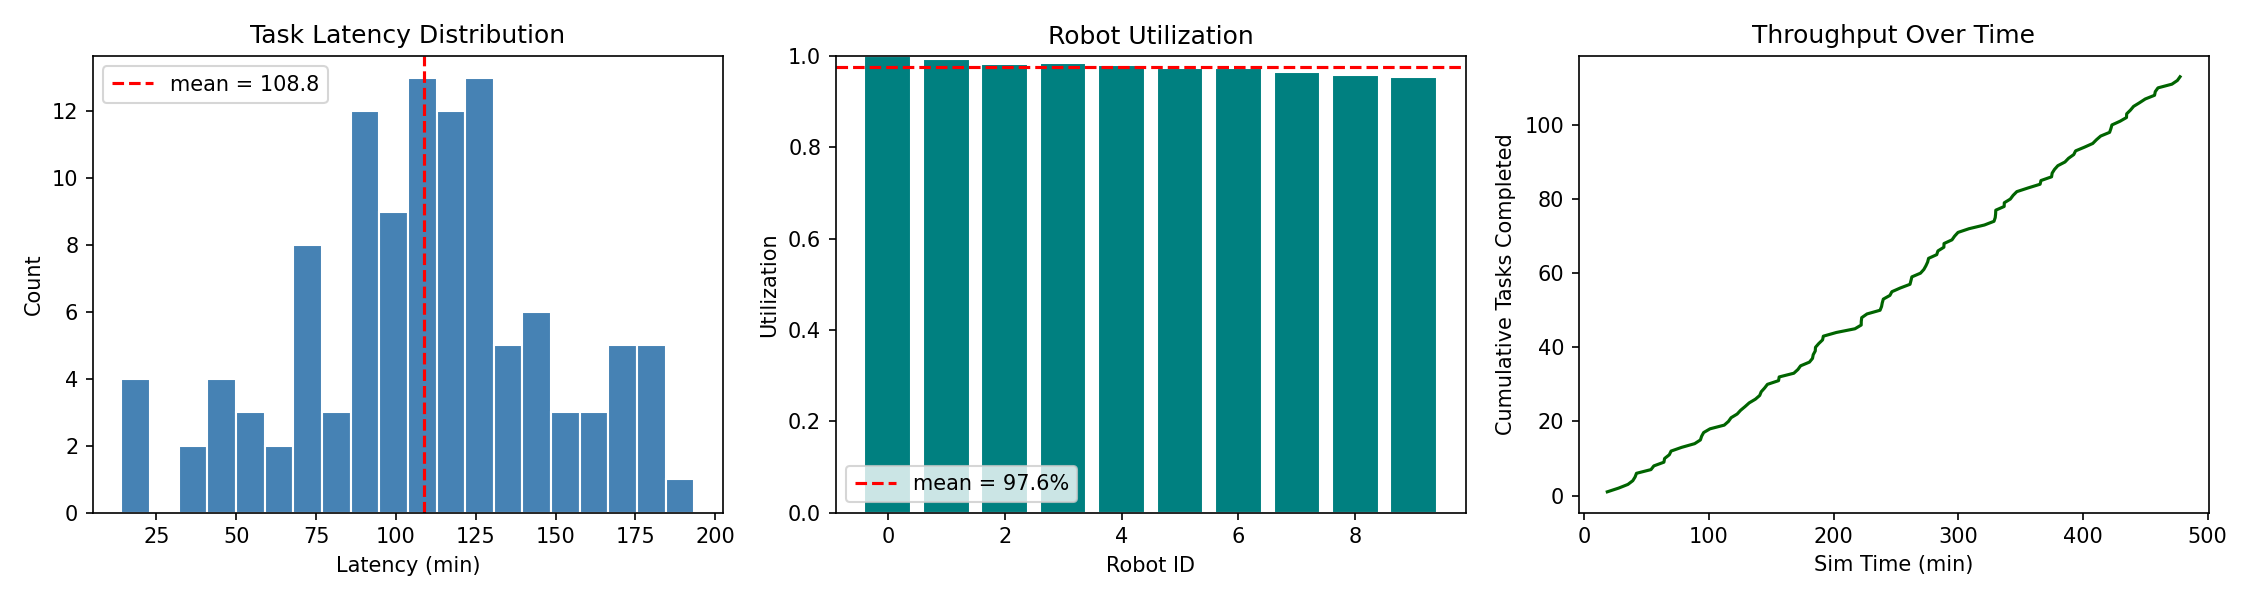
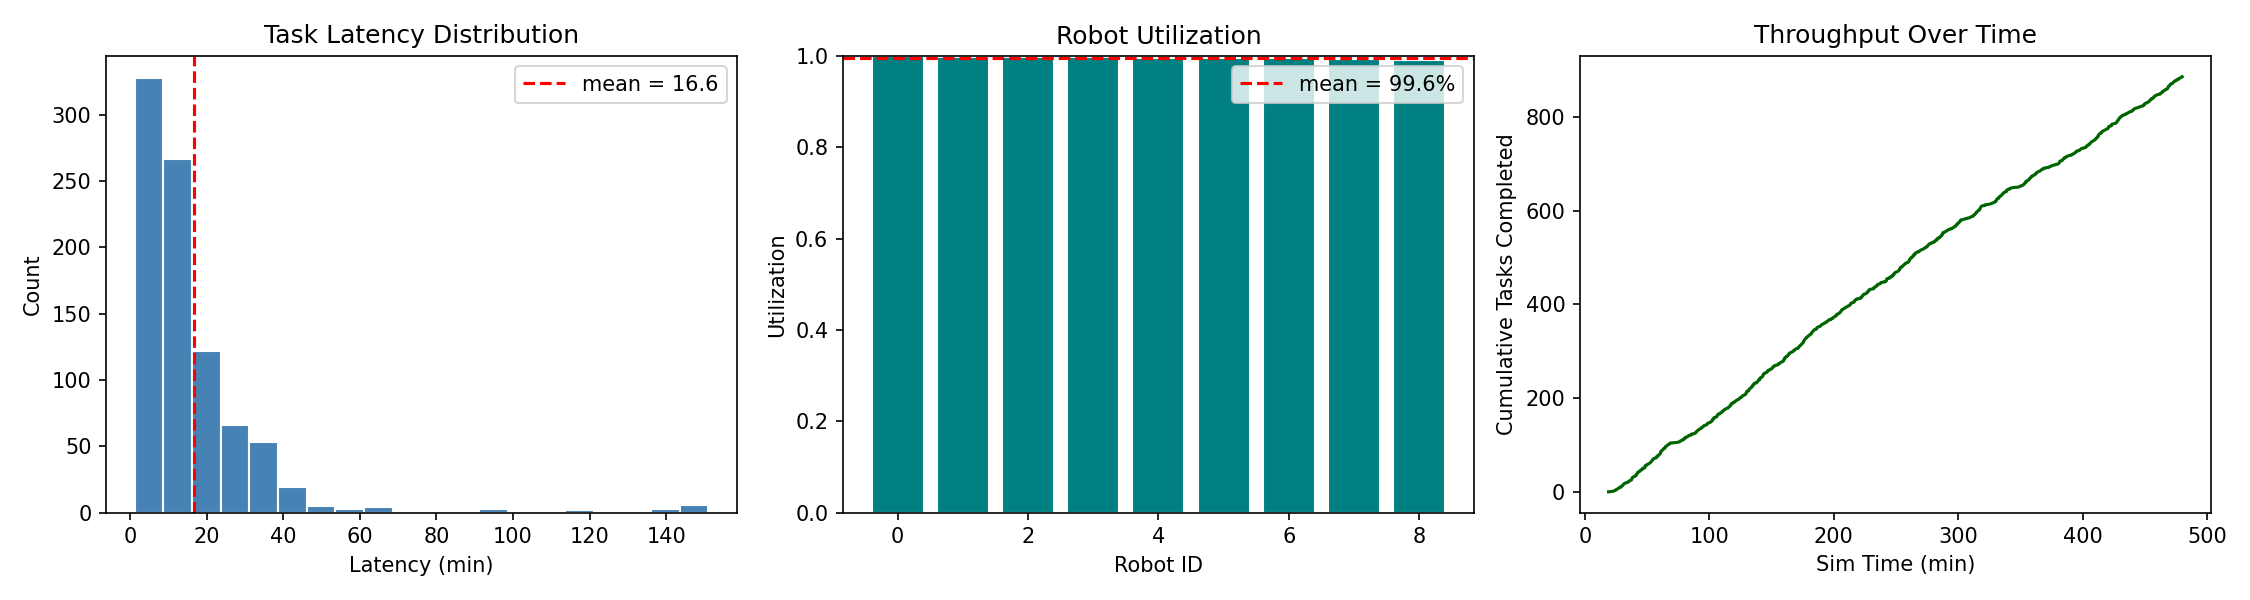
added motion planning, greedy policy, obstacles, and warehouse animation

diff --git a/analysis/visualize.py b/analysis/visualize.py
@@ -1,5 +1,7 @@
 import matplotlib.pyplot as plt
+from matplotlib.animation import FuncAnimation
 import numpy as np
+import pandas as pd
 
 
 def plot_results(metrics, num_robots):
@@ -26,4 +28,106 @@ def plot_results(metrics, num_robots):
 
     plt.tight_layout()
     plt.savefig("results.png", dpi=150)
+    plt.show()
+
+
+def plot_warehouse(warehouse):
+    # visualizes the warehouse grid, obstacles, stations, and home.
+
+    fig, ax = plt.subplots(1, 1, figsize=(8, 8))
+
+    for (u, v) in warehouse.graph.edges():                                                  # draw grid edges
+        ax.plot([u[0], v[0]], [u[1], v[1]], color="lightgray", linewidth=0.5)
+
+    for obs in warehouse.obstacles:                                                         # draw obstacles
+        ax.add_patch(plt.Rectangle((obs[0] - 0.4, obs[1] - 0.4), 0.8, 0.8,
+                                    color="black", zorder=3))
+
+    sx = [s[0] for s in warehouse.stations]                                                 # draw stations
+    sy = [s[1] for s in warehouse.stations]
+    ax.scatter(sx, sy, color="steelblue", s=120, zorder=4, label="stations")
+
+    ax.scatter(*warehouse.home, color="red", s=150, marker="s", zorder=5, label="home")     # draw home
+
+    for station in warehouse.stations:                                                      # draw a sample path from home to each station
+        path = warehouse.find_path(warehouse.home, station)
+        px = [p[0] for p in path]
+        py = [p[1] for p in path]
+        ax.plot(px, py, linewidth=1.5, alpha=0.6, linestyle="--")
+
+    ax.set_xlim(-1, warehouse.grid_size[0]); ax.set_ylim(-1, warehouse.grid_size[1])
+    ax.set_aspect("equal"); ax.legend(loc="upper right"); ax.set_title("Warehouse Grid Layout")
+    ax.set_xlabel("x"); ax.set_ylabel("y")
+
+    plt.tight_layout()
+    plt.savefig("warehouse_layout.png", dpi=150)
+    plt.show()
+
+
+from matplotlib.animation import FuncAnimation
+import pandas as pd
+
+
+def animate_warehouse(warehouse, metrics, config, speedup=10, interval=50):
+    """
+    Replays simulation as animated robots on the grid.
+    speedup: how many sim-minutes per real second
+    interval: ms between frames
+    """
+
+    df = pd.DataFrame(metrics.robot_positions, columns=["robot_id", "x", "y", "time"])
+
+    sim_duration = config["sim_duration"]
+    dt = speedup * interval / 400                                                          # sim-time step per frame
+    frames = np.arange(0, sim_duration, dt)
+    num_robots = config["num_robots"]
+
+    # ───── precompute positions for all frames ──────
+    position_cache = np.zeros((len(frames), num_robots, 2))
+    for rid in range(num_robots):
+        robot_df = df[df["robot_id"] == rid].sort_values("time")
+        times = robot_df["time"].values
+        xs = robot_df["x"].values
+        ys = robot_df["y"].values
+        for i, t in enumerate(frames):
+            idx = np.searchsorted(times, t, side="right") - 1                               # binary search for speed up
+            if idx >= 0:
+                position_cache[i, rid] = [xs[idx], ys[idx]]                                 # cache for speed up
+            else:
+                position_cache[i, rid] = warehouse.home
+
+    # ──────figure ────────
+    fig, ax = plt.subplots(figsize=(8, 8))
+
+    # ──────static elements──────
+    for (u, v) in warehouse.graph.edges():
+        ax.plot([u[0], v[0]], [u[1], v[1]], color="lightgray", linewidth=0.5)
+
+    for obs in warehouse.obstacles:
+        ax.add_patch(plt.Rectangle((obs[0] - 0.4, obs[1] - 0.4), 0.8, 0.8,
+                                    color="black", zorder=3))
+
+    sx = [s[0] for s in warehouse.stations]
+    sy = [s[1] for s in warehouse.stations]
+    ax.scatter(sx, sy, color="steelblue", s=100, zorder=4, label="stations", marker="^")
+    ax.scatter(*warehouse.home, color="red", s=120, marker="s", zorder=4, label="home")
+
+    ax.set_xlim(-1, warehouse.grid_size[0]); ax.set_ylim(-1, warehouse.grid_size[1])
+    ax.set_aspect("equal")
+    ax.legend(loc="upper right")
+
+    # ──────dynamic elements──────
+    robot_dots = ax.scatter([], [], color="orange", s=80, zorder=5, edgecolors="black", linewidths=0.5)
+    time_text = ax.set_title("")
+
+    # ─────animation loop───────
+    def update(frame_idx):
+        robot_dots.set_offsets(position_cache[frame_idx])
+        ax.set_title(f"t = {frames[frame_idx]:.1f} min")
+        return robot_dots,
+
+    anim = FuncAnimation(fig, update, frames=len(frames), interval=interval, blit=True, repeat=False)
+
+    anim.save("warehouse_animation.gif", writer="pillow", fps=400 // interval)
+    print("Saved warehouse_animation.gif")
     plt.show()

diff --git a/sim/warehouse.py b/sim/warehouse.py
@@ -1,9 +1,10 @@
 '''
-warehouse hosts the environment for grid layout, station locations and shared task queue.
+warehouse hosts the environment for grid layout, station locations, motion planning and shared task queue.
 '''
 
 import simpy
 import numpy as np
+import networkx as nx
 
 class Warehouse:
     def __init__(self, env, config, metrics):
@@ -13,14 +14,74 @@ class Warehouse:
         self.grid_size = (20, 20)
         self.home = (0,0)                                                                   # robot start/return position
 
+        self.graph = nx.grid_2d_graph(self.grid_size[0], self.grid_size[1])                 # let nx to manage grid for motion planning
+
+        self.obstacles = [(5, 5), (5, 6), (5, 7), (6, 5), (6, 6), (6, 7)]                   # a wall obstacle
+        for obs in self.obstacles:
+            if obs in self.graph:
+                self.graph.remove_node(obs)
+
         rng = np.random.default_rng(config["seed"])                                         # initiate an rng generator
-        self.stations = [
-            tuple(rng.integers(1, self.grid_size[0], size=2))                               # random station location x,y
-            for _ in range(config["num_stations"])
-        ]
-        self.task_queue = simpy.Store(env)                                                  # default unlimited capacity FIFO queue storing the tasks. Robot and task master inherit task_queue from Warehouse
+        valid_nodes = list(self.graph.nodes)                                                # exclude obstacles
+        valid_nodes.remove(self.home)                                                       # exclude home from stations pool
+        station_indices = rng.choice(len(valid_nodes), size=config["num_stations"], replace=False) # random stations
+        self.stations = [valid_nodes[i] for i in station_indices]                           # set location of stations
+
+        #self.task_queue = simpy.Store(env)                                                 # default unlimited capacity FIFO queue storing the tasks. Robot and task master inherit task_queue from Warehouse
+        self.task_queue = simpy.FilterStore(env)                                            # use greedy policy instead of simple FIFO queue
+        self.waiting_robots = []                                                            # keep track of idle robots so only one of them is notified when task is available
+
+    @staticmethod
+    def heuristic(a, b):                                                                    # L1 is a perfect heuristic for this grid as it is both admissible and consistent
+        return abs(a[0] - b[0]) + abs(a[1] - b[1])
+    
+
+    def find_path(self, pos_from, pos_to):
+        return nx.astar_path(self.graph, pos_from, pos_to, heuristic=self.heuristic)        # use simple A-star with L1 heuristics for motion planning
+
 
     def travel_time(self, pos_from, pos_to):
-        # uses Manhattan distance (L1 norm) to calculate traversal time over a cartesian grid
-        dist = abs(pos_from[0] - pos_to[0]) + abs(pos_from[1] - pos_to[1])
+        path = self.find_path(pos_from, pos_to)                                             # use A-star for optimal path
+        dist = len(path) - 1                                                                # num edges
         return dist / self.config["robot_speed"]
+
+
+    def notify_task_available(self):
+        # wakes up a single nearest robot waiting for a task and assigns the task to it.
+
+        if not self.waiting_robots:                                                         # if no robot in the pool, task waits in queue
+            return
+        
+        task = self.task_queue.items[-1]                                                    # get newest task
+        if self.config["policy"] == "fifo":
+            robot_event, robot_pos = self.waiting_robots.pop(0)                             # if FIFO policy assign to the longest waiting robot
+            robot_event.succeed(value=task)                                                 # pass the task directly to waking robot
+            self.task_queue.items.remove(task)
+        elif self.config["policy"] == "greedy":
+            best_idx = min(range(len(self.waiting_robots)),
+                           key = lambda i : self.heuristic(self.waiting_robots[i][1], task.station))
+            robot_event, robot_pos = self.waiting_robots.pop(best_idx)
+            robot_event.succeed(value=task)
+            self.task_queue.items.remove(task)
+
+
+    def assign_task(self, robot_pos, policy='fifo'):
+        # yields until dispatched. Returns task.
+
+        while True:
+            if self.task_queue.items and not self.waiting_robots:
+            # if tasks available but no robots available, there is no competition, 
+            # so assignment is robot-centered not task-centered
+                if policy == 'fifo':                                                        # first in first out
+                    task = self.task_queue.items.pop(0)
+                elif policy == 'greedy':                                                    # greedy selects the closest task
+                    task = min(self.task_queue.items,
+                                key = lambda t : self.heuristic(robot_pos, t.station))
+                    self.task_queue.items.remove(task)
+                return task
+            else:
+                wait_event = self.env.event()                                               # create an event object for this robot
+                self.waiting_robots.append((wait_event, robot_pos))                         # register this event with other idle robots and its position for greedy selection
+                task = yield wait_event                                                     # suspend this robot until a notification
+                if task is not None:
+                    return task

diff --git a/sim/robot.py b/sim/robot.py
@@ -12,25 +12,40 @@ class Robot:
         self.metrics = metrics
 
     def work(self):
+        self.pos = self.warehouse.home                                                      # default position is home, espeically for fifo case
         while True:
             #-----------idle------------
             self.metrics.log_robot_status(self.id, "idle", self.env.now)
-            task = yield self.warehouse.task_queue.get()                                    # task is the event object that yield returns
+            self.metrics.log_robot_position(self.id, self.pos, self.env.now)
+            task = yield self.env.process(
+                self.warehouse.assign_task(self.pos, policy=self.config["policy"])          # generic task assignment based on input policy
+            )                                    
 
             #----------travel-----------
             self.metrics.log_robot_status(self.id, "traveling", self.env.now)
-            traversal = self.warehouse.travel_time(self.warehouse.home, task.station)
-            yield self.env.timeout(traversal)
+            path = self.warehouse.find_path(self.pos, task.station)                         # get travel path from motion planner
+            for step in path[1:]:
+                yield self.env.timeout(1.0 / self.config["robot_speed"])                    # every single grid step suspend to check for collision and log position
+                self.pos = step
+                self.metrics.log_robot_position(self.id, self.pos, self.env.now)
 
             #---------execution---------
             self.metrics.log_robot_status(self.id, "working", self.env.now)
             yield self.env.timeout(task.duration)
 
             #----------return-----------
+            '''
             self.metrics.log_robot_status(self.id, "returning", self.env.now)
-            returning = self.warehouse.travel_time(task.station, self.warehouse.home)
-            yield self.env.timeout(returning)
+            return_path = self.warehouse.find_path(self.pos, self.warehouse.home)           # get return travel path from motion planner
+            for step in return_path[1:]:
+                yield self.env.timeout(1.0 / self.config["robot_speed"])                    # every single grid step suspend to check for collision and log position
+                self.pos = step
+                self.metrics.log_robot_position(self.id, self.pos, self.env.now)
             self.metrics.log_task_completed(task, self.id, self.env.now)
+            '''
+
+            #----------no return, stay at station-----------
+            self.metrics.log_task_completed(task, self.id, self.env.now)                    # switched to stay at station so greedy policy makes sense
 
 
 

diff --git a/main.py b/main.py
@@ -4,7 +4,7 @@ from sim.warehouse import Warehouse
 from sim.task import TaskGenerator
 from sim.robot import Robot
 from analysis.metrics import MetricsCollector
-from analysis.visualize import plot_results
+from analysis.visualize import plot_results, plot_warehouse, animate_warehouse
 
 with open("config.json") as f:
     CONFIG = json.load(f)                                                                   # load simulation input data
@@ -23,9 +23,11 @@ def run_sim(config):
         env.process(robot.work())                                                           # register each robot generator with the queue and wrap it as a process
     env.run(until = config["sim_duration"])
 
-    return metrics_sim
+    return metrics_sim, warehouse
 
 if __name__ == "__main__":
-    metrics_sim = run_sim(CONFIG)
+    metrics_sim, warehouse = run_sim(CONFIG)
     metrics_sim.summary(CONFIG["num_robots"])
+    plot_warehouse(warehouse)
     plot_results(metrics_sim, CONFIG["num_robots"])
+    animate_warehouse(warehouse, metrics_sim, CONFIG)

diff --git a/analysis/metrics.py b/analysis/metrics.py
@@ -7,6 +7,7 @@ class MetricsCollector:
         self.tasks_created = []                                                             # some event logs
         self.tasks_completed = []
         self.robot_status_log = []
+        self.robot_positions = []                                                           # log pos of each robot vs time for animation
 
 
     def log_task_created(self, task):
@@ -19,6 +20,10 @@ class MetricsCollector:
 
     def log_robot_status(self, robot_id, status, timestamp):
         self.robot_status_log.append((robot_id, status, timestamp))
+
+
+    def log_robot_position(self, robot_id, pos, timestamp):
+        self.robot_positions.append((robot_id, pos[0], pos[1], timestamp))
 
 
     def throughput(self):

diff --git a/tests/test_sim.py b/tests/test_sim.py
@@ -67,6 +67,6 @@ def test_robot_completes_task():
 
 def test_full_sim_runs():
     from main import run_sim
-    metrics = run_sim(CONFIG)
+    metrics, warehouse = run_sim(CONFIG)
     assert len(metrics.tasks_completed) > 0
     assert metrics.throughput() > 0

diff --git a/sim/task.py b/sim/task.py
@@ -35,6 +35,7 @@ class TaskGenerator:
             duration = self.rng.uniform(1.0, 5.0)                                           # select task duration random at uniform. in reality has to be empirically measured
             task = Task(station, duration, self.env.now)                                    # create the task
             self.warehouse.task_queue.put(task)                                             # feed to queue
+            self.warehouse.notify_task_available()                                          # wake up idle robots
             self.warehouse.metrics.log_task_created(task)                                   # record task creation for performance analysis
 
 

diff --git a/README.md b/README.md
@@ -1,7 +1,8 @@
 # DES-warehouse
 
 This is a Discrete-Event Simulation (DES) planner for a multi-agent environment where a fleet of robots perform warehouse tasks to optimize aggregate throughput.\
-The queue management is simple FIFO. Current version has no collision modeling, charge time, obstacles or path planning.
+The queue assignment policy is either FIFO or greedy. Current version includes obstacles and path planning using A-star but has no collision modeling and charging idle time.\
+Greedy assignment is task-centered selecting nearest robot to the task.
 
 ## Project Layout
 
@@ -24,6 +25,8 @@ DES-warehouse/
 ├── main.py
 ├── config.json
 ├── results.png
+├── warehouse_animation.gif
+├── warehouse_layout.png
 ├── requirements.txt
 ├── .gitignore
 └── README.md
@@ -32,7 +35,7 @@ DES-warehouse/
 ## Stack
 - `simpy` to simulate environment
 - `numpy`, `pandas` for data analysis and statistical analysis
-- `scipy` for optimization
+- `networkx` for grid construction and motion planning
 - `pytest` for testing
 - `matplotlib` for visualization
 